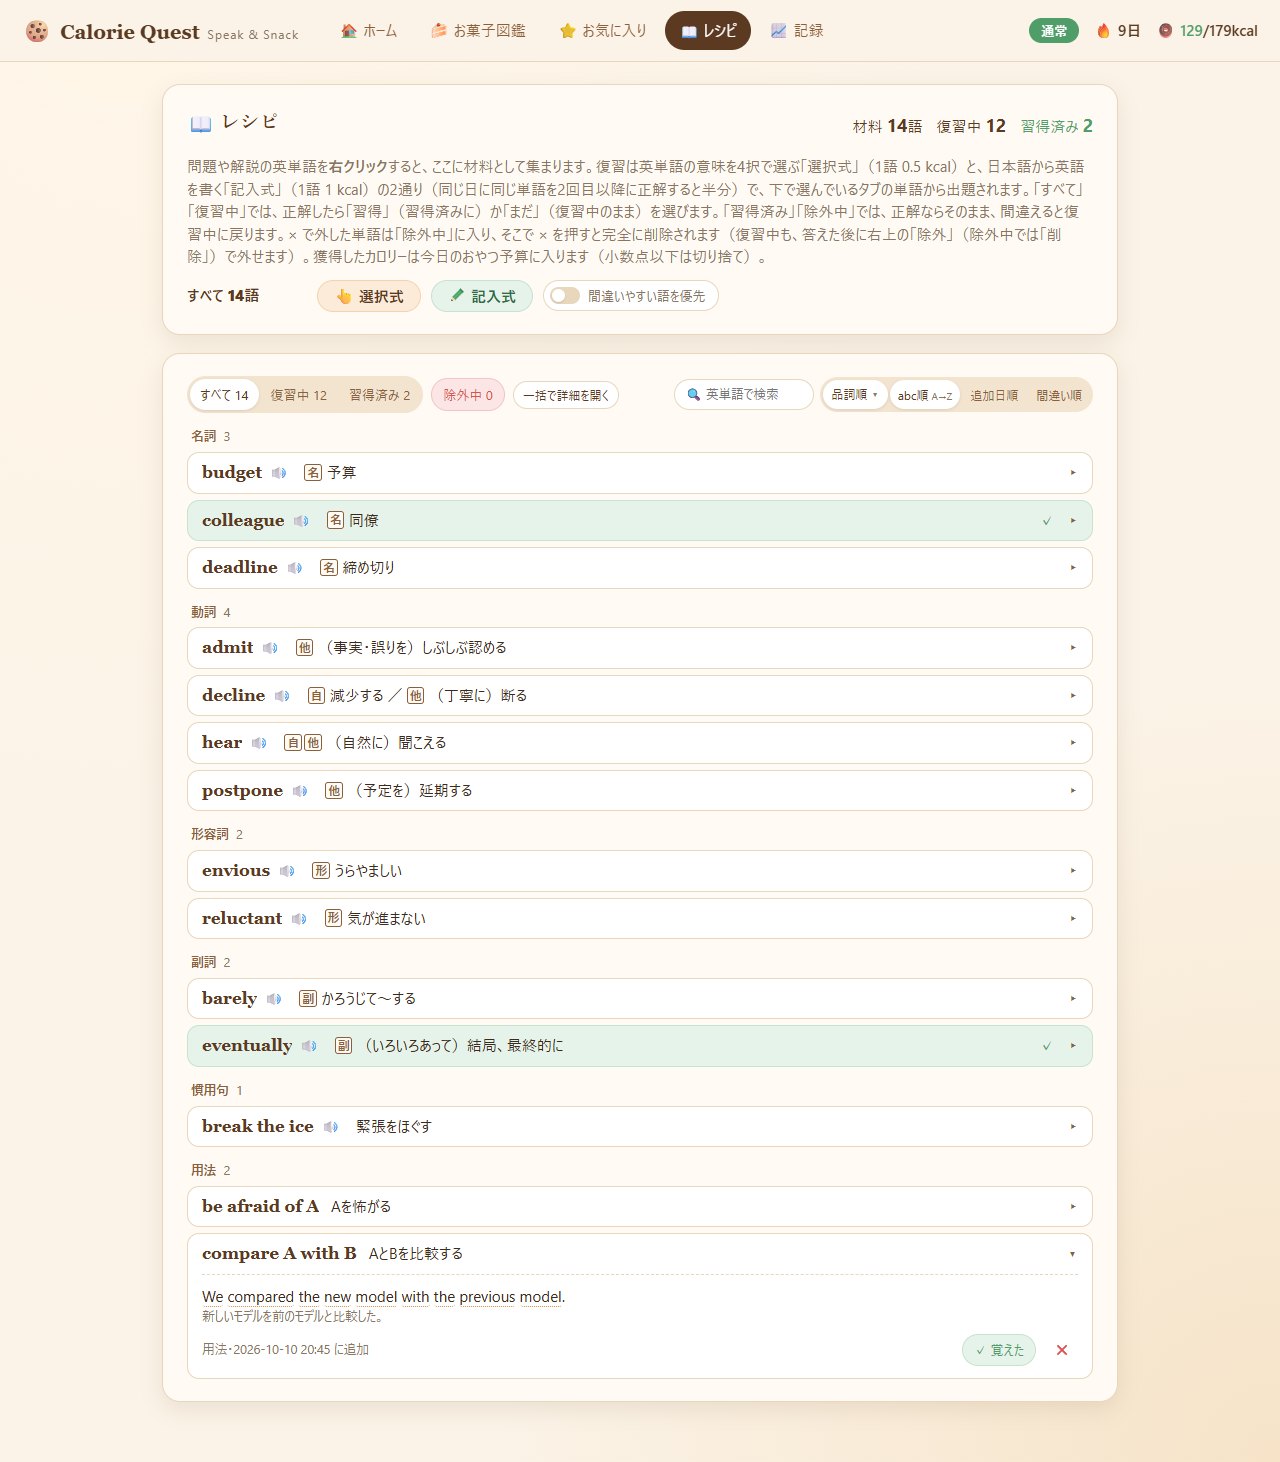
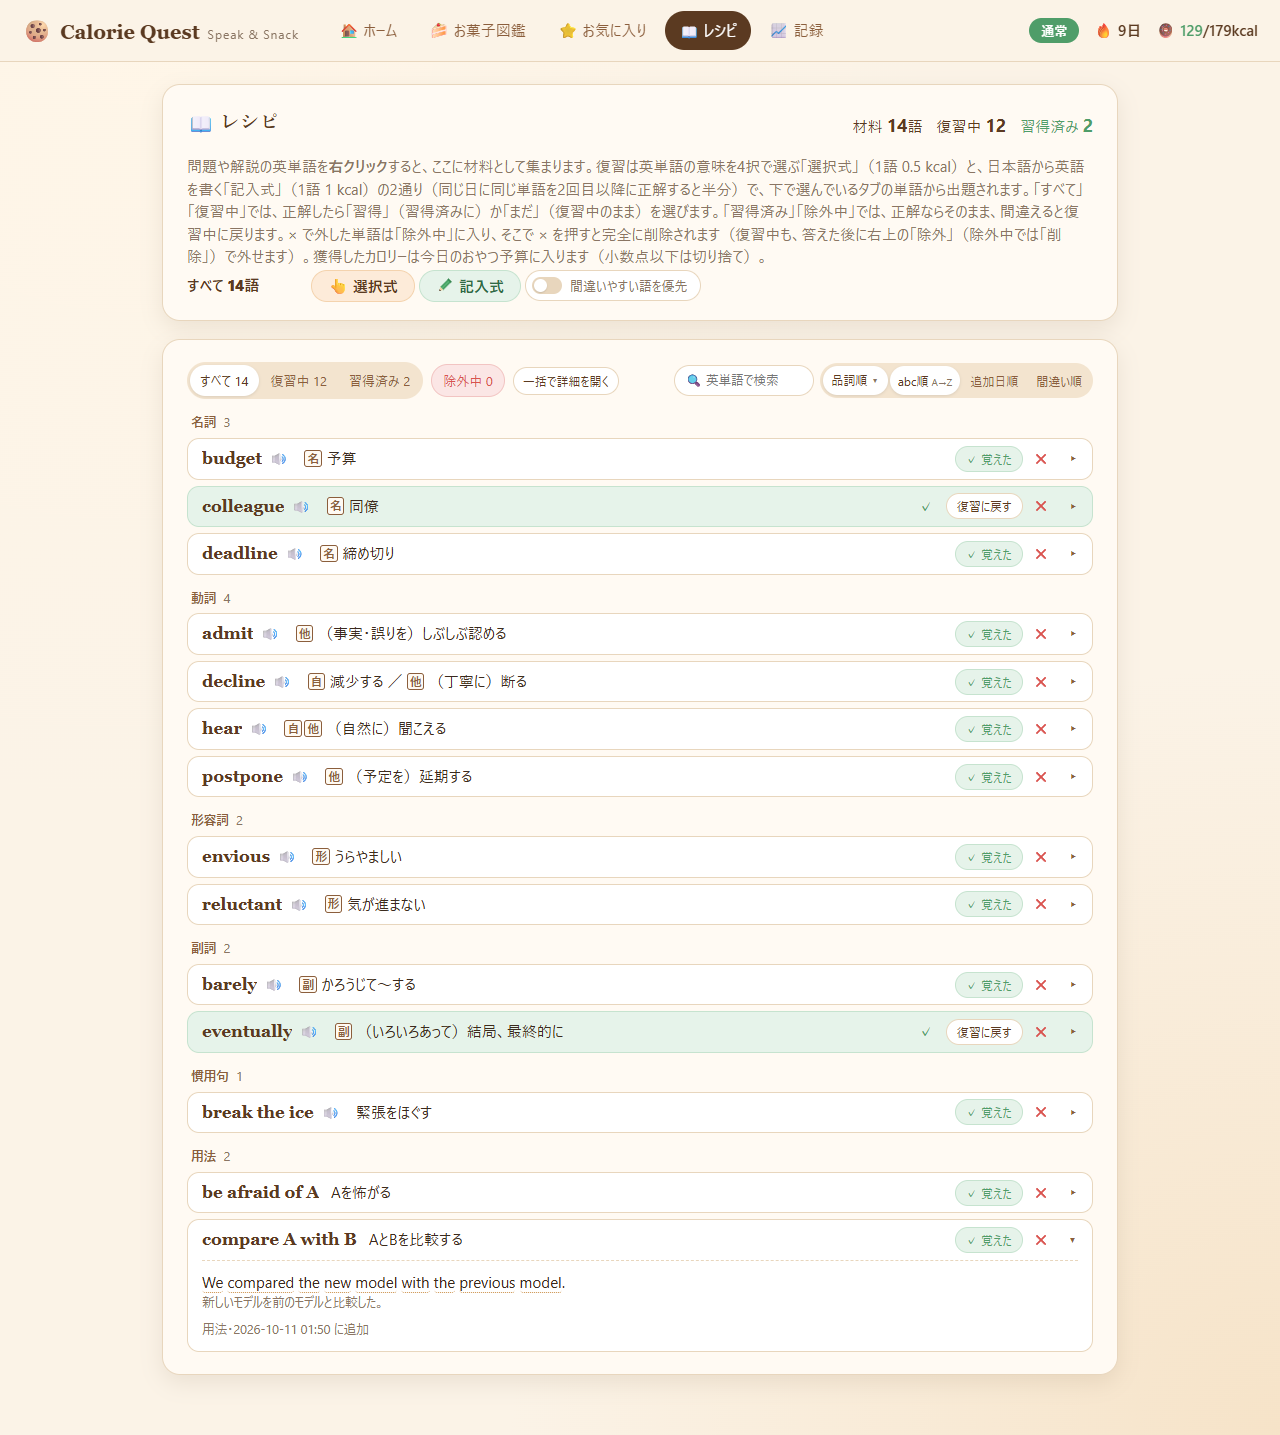
Retake the recipe screenshot with ✓ 覚えた and × on each row
Its alt text says so. The other screens have not changed since the last
shots, so they stay.

diff --git a/README.md b/README.md
@@ -26,7 +26,7 @@
 
 | レシピ（単語帳） | お菓子図鑑（家計簿・貯蓄・並び替え） |
 | --- | --- |
-| ![レシピ: 品詞順にまとめた1行ずつの一覧（名詞・動詞・形容詞・副詞・慣用句・用法、習得済みは緑）。類似表現のある語は意味をニュアンスで出す（admit「（事実・誤りを）しぶしぶ認める」、decline「[自] 減少する ／ [他] （丁寧に）断る」）。タブ・検索・並び替え、開いた用法 compare A with B の例文と訳](docs/screenshots/recipe.png) | ![お菓子図鑑: 今日のカロリー家計簿と取り消し、貯蓄の進み具合とお菓子引換券、並び替えできる1行ずつのお菓子の一覧（目標の★、食べた、引換券、自作の削除）](docs/screenshots/snacks.png) |
+| ![レシピ: 品詞順にまとめた1行ずつの一覧（名詞・動詞・形容詞・副詞・慣用句・用法、習得済みは緑）。各行の右端に「✓ 覚えた」（習得済みは「復習に戻す」）と ×。類似表現のある語は意味をニュアンスで出す（admit「（事実・誤りを）しぶしぶ認める」、decline「[自] 減少する ／ [他] （丁寧に）断る」）。タブ・検索・並び替え、開いた用法 compare A with B の例文と訳](docs/screenshots/recipe.png) | ![お菓子図鑑: 今日のカロリー家計簿と取り消し、貯蓄の進み具合とお菓子引換券、並び替えできる1行ずつのお菓子の一覧（目標の★、食べた、引換券、自作の削除）](docs/screenshots/snacks.png) |
 
 | お気に入り | 記録 |
 | --- | --- |
